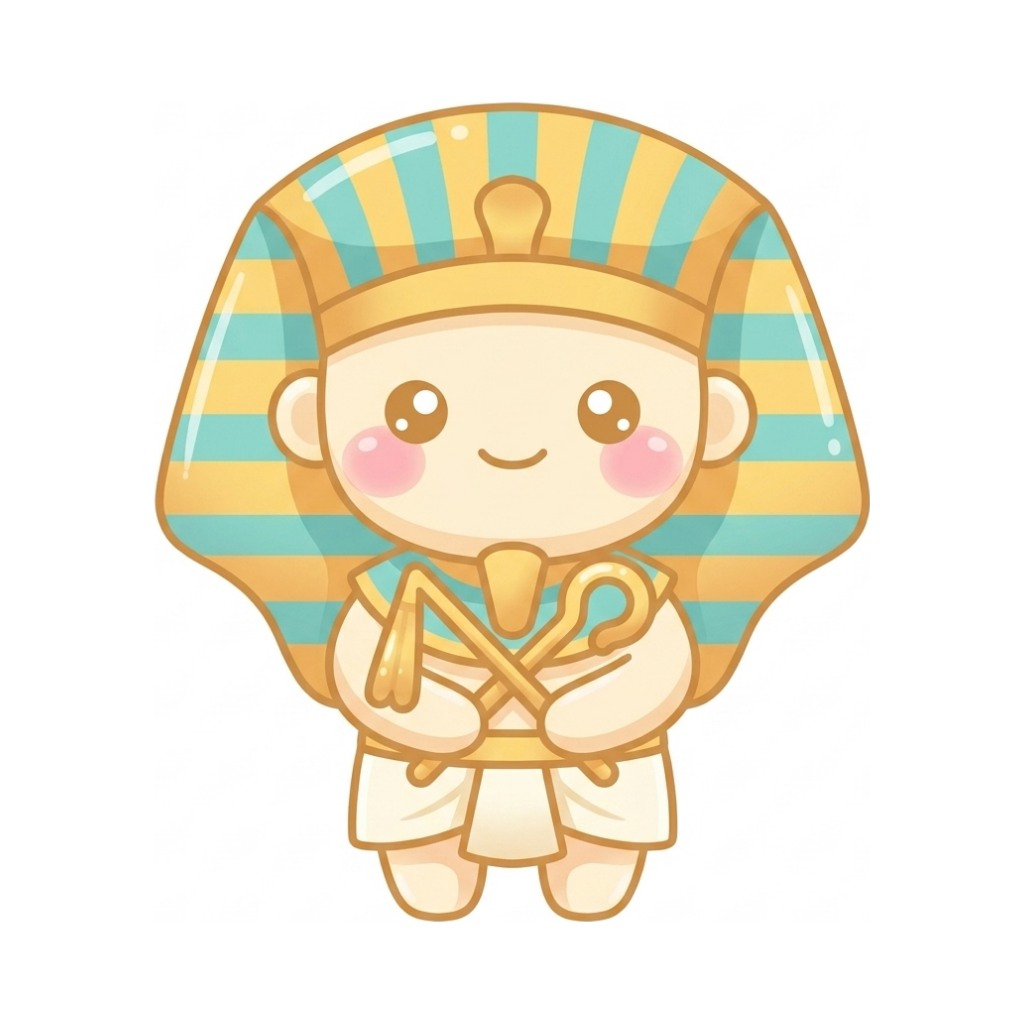
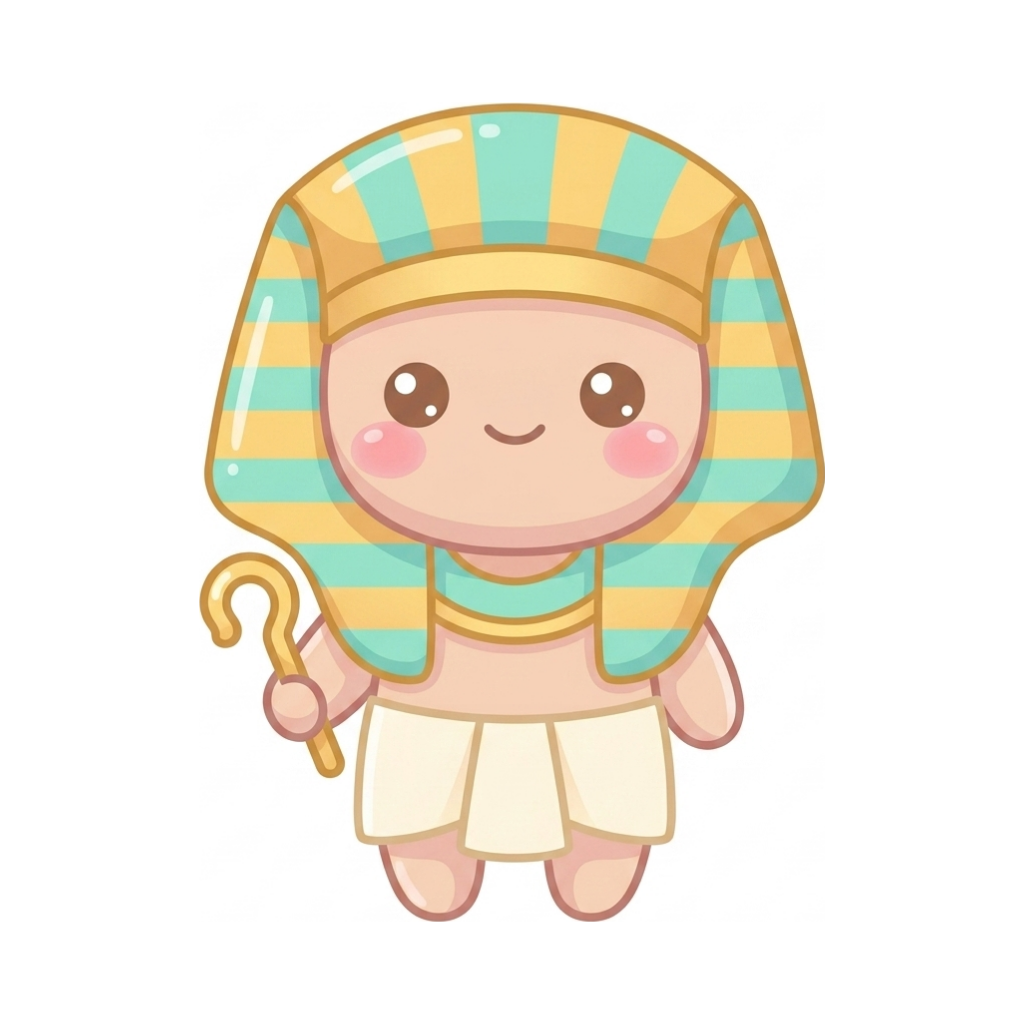
クレオパトラを ロングヘアに、ファラオの 衣装を もとに もどした
- クレオパトラ … ぱっつんボブ → こしより 長い ロングヘア
- ファラオ …… 頭巾を 広げすぎていたので、まっすぐ 2まいに 落ちる形と
  かんたんな 前かけ、こん棒は 1本だけ の 衣装に もどした

ついでに スナネコを 直した。さばくの じめん（#f9ead6）に 36pxで 置くと
ほとんど 見えていなかった（クマと 色を 離すために 白くしすぎた）。
灰みの 砂いろに して、じめんの あたたかい色とも クマの ピンク茶とも
色あいで 分かれるようにした。

check-dup の 色の ものさしを 直した。平均RGBの へだたりだけでは
灰いろの ネコと うすい茶いろの クマを 「同じ」と 言ってしまう。
色あい・あざやかさ・明るさ・**明るさの ばらつき** の4つに した。
ばらつきは パンダのような 白すみの子を 分けるため（ならすと 灰いろに なる）。
出てくる組は 69 → 22 に へり、のこったのは 丸い おかしどうしだけ。
turtle を コピーして 1.0 で 見つかることを 確かめた。

検査 OK（177体＋42・8項目）

Claude-Session: https://claude.ai/code/session_01LVTQ3iF4i4m1KwNWYkaw1P

diff --git a/CLAUDE.md b/CLAUDE.md
@@ -294,15 +294,22 @@ node tools/check-dup.mjs                 # ぜんぶ
 node tools/check-dup.mjs camel oni …     # その子が からむ組だけ
 ```
 
-ものさしは 2つで、**どちらも 近いときだけ** ほんとうに 見わけられません。
+ものさしは **形と 色**で、どちらも 近いときだけ ほんとうに 見わけられません。
 
 | | |
 |---|---|
 | 形 | 32×32 に 縮めた すきとおり具合の かさなり（IoU 0.86 以上） |
-| 色差 | 中みの 平均色の へだたり（40 以下） |
+| 色 | 色あい30°以内・あざやかさ0.12以内・明るさ0.12以内・**ばらつき0.06以内** |
 
-**これは 合否を 出しません。**丸い おかしは もともと 似ていて
-（クッキー↔ドーナツ、まんじゅう↔ロールなど69組）、直しようが ないためです。
+**色を 平均RGBの へだたりだけで 見ては いけません。**灰いろの ネコと
+うすい茶いろの クマは RGBでは 近いのに、見れば ひとめで ちがいます
+（あざやかさが ちがう）。さらに パンダは 白と すみいろなので、ならすと
+灰いろに なって 灰いろの ネコと 同じに 見えます。だから
+**明るさの ばらつき**も くらべます。この2つを 足して、
+出てくる組は 69 → 22 に へり、動物は ぜんぶ 消えました。
+
+**これは 合否を 出しません。**のこる22組は 丸い おかしどうしで
+（クッキー↔ドーナツ、まんじゅう↔ロールなど）、直しようが ないためです。
 キャラを 足したら 走らせて、**足した子が からむ組だけ** 見てください。
 
 直すときは 色ではなく **形** を変えます。マグマガメは 色だけ 変えても
